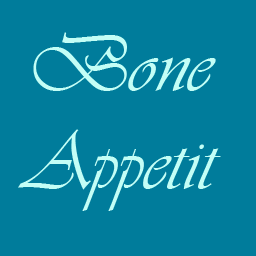
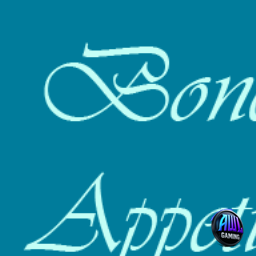
Publish 3.3.3 storefront badge

Changed region(s): [[0.0625, 0.125, 1.0, 1.0]]

diff --git a/BoneAppetit/BoneAppetit.cs b/BoneAppetit/BoneAppetit.cs
@@ -18,7 +18,7 @@ using Logger = Jotunn.Logger;
 
 namespace Boneappetit;
 
-[BepInPlugin("com.rockerkitten.boneappetit", "BoneAppetit", "3.3.2")]
+[BepInPlugin("com.rockerkitten.boneappetit", "BoneAppetit", "3.3.3")]
 [BepInDependency(Jotunn.Main.ModGuid)]
 [NetworkCompatibility(CompatibilityLevel.EveryoneMustHaveMod, VersionStrictness.Minor)]
 public class BoneAppetit : BaseUnityPlugin
@@ -27,7 +27,7 @@ public class BoneAppetit : BaseUnityPlugin
 
 	public const string PluginName = "BoneAppetit";
 
-	public const string PluginVersion = "3.3.2";
+	public const string PluginVersion = "3.3.3";
 
 	public AssetBundle GrillAssetBundle;
 

diff --git a/Properties/AssemblyInfo.cs b/Properties/AssemblyInfo.cs
@@ -14,5 +14,5 @@ using System.Security.Permissions;
 [assembly: AssemblyTrademark("")]
 [assembly: ComVisible(false)]
 [assembly: Guid("e3243d22-4307-4008-ba36-9f326008cde5")]
-[assembly: AssemblyFileVersion("3.3.2")]
-[assembly: AssemblyVersion("3.3.2.0")]
+[assembly: AssemblyFileVersion("3.3.3")]
+[assembly: AssemblyVersion("3.3.3.0")]

diff --git a/README.md b/README.md
@@ -13,8 +13,9 @@ BoneAppetit was originally created by **RockerKitten**. AWL Gaming maintains thi
 
 Valharvest integrates with BoneAppetit but does not replace BoneAppetit's own foods or stations.
 
-## AWL 3.3.2 compatibility work
+## AWL 3.3.3 maintained release
 
+- 3.3.3 keeps the validated 3.3.2 gameplay content and adds the standard AWL Gaming storefront badge; gameplay behavior is unchanged.
 - Reconstructed from the actual published BoneAppetit 3.3.1 package because the public upstream source tree still identifies its plugin source as 3.2.4.
 - Preserved the published `customfood` and `grill` embedded asset bundles byte-for-byte.
 - Preserved Grill, Griddle, Prep Table, foods, items, drops, cooking integration, and released gameplay content.

diff --git a/CHANGELOG.md b/CHANGELOG.md
@@ -1,5 +1,11 @@
 # Changelog
 
+## 3.3.3 - 2026-09-13
+
+### Changed
+- Added the standard AWL Gaming badge to the package icon for consistent storefront presentation.
+- Bumped package and plugin version metadata to 3.3.3; gameplay behavior and embedded content are unchanged from the validated 3.3.2 build.
+
 ## 3.3.2 - 2026-09-13
 
 ### Fixed

diff --git a/PUBLISHING.md b/PUBLISHING.md
@@ -12,7 +12,7 @@ This is an AWL-maintained compatibility release of the original BoneAppetit by R
 
 ## Current version
 
-3.3.2
+3.3.3
 
 ## Package requirements
 
